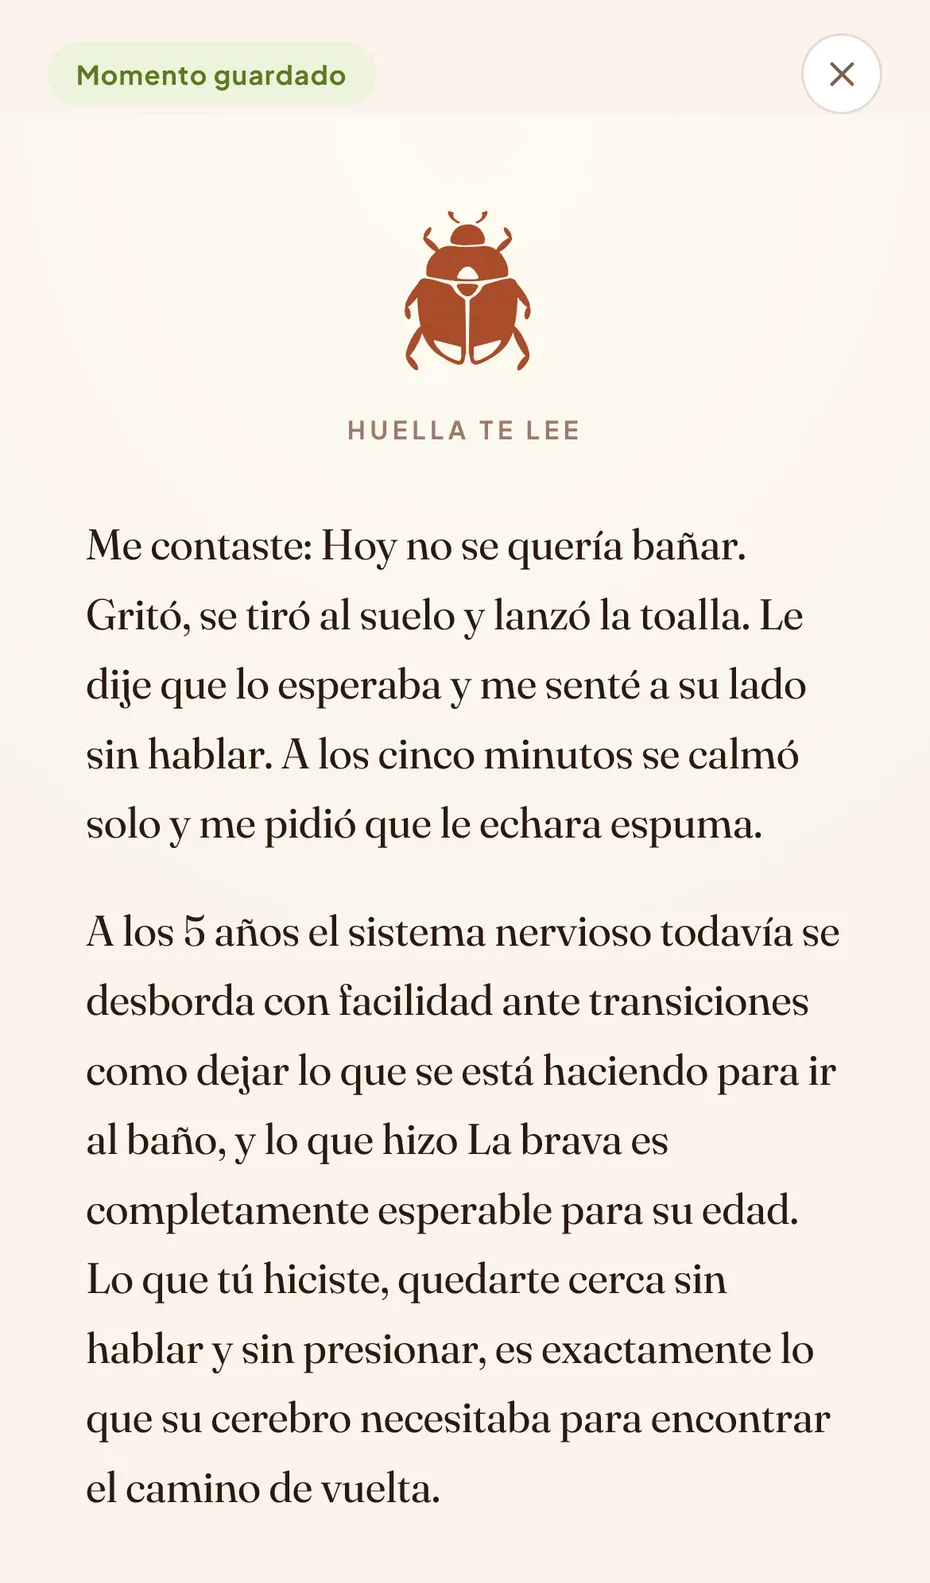
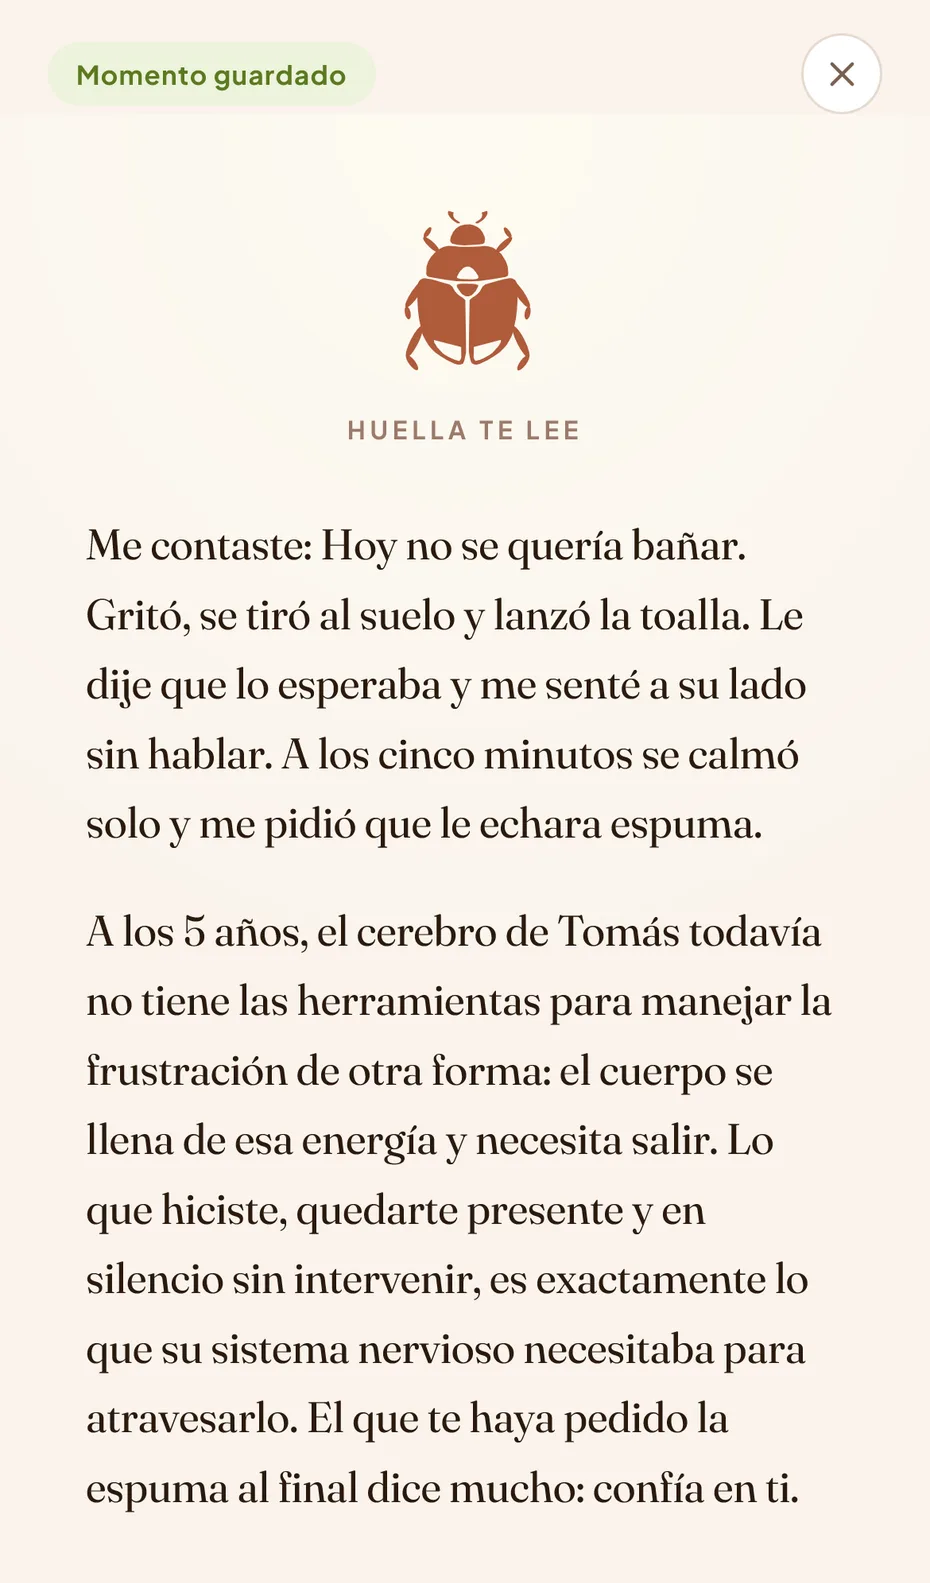
feat: portada de prueba con capturas de Tomas en vez de La brava y sin Carlos Gonzalez en el grafico de autores (no hay otro autor con rango de edad en el codigo)

Changed region(s): [[0.0935, 0.5572, 0.9043, 0.9596]]

diff --git a/src/pages/portada/PortadaPage.jsx b/src/pages/portada/PortadaPage.jsx
@@ -13,13 +13,14 @@ import styles from './PortadaPage.module.css'
 
 const TITULO = 'Huella — Conoce y potencia a tu hijo'
 
-// Edades de algunos autores (src/services/anthropic.js: edad minima y maxima
-// por autor). `hasta`: entra hasta esa edad; `desde`: entra desde esa edad.
+// Edades de algunos autores (src/services/anthropic.js: EDAD_MINIMA_AUTOR y
+// EDAD_MAXIMA_AUTOR). `hasta`: entra hasta esa edad; `desde`: entra desde esa
+// edad. Carlos González salio de la portada (4 oct 2026); no entro otro: los
+// demas autores del banco no tienen limite de edad en el codigo.
 const AUTORES = [
   { nombre: 'Gerber', hasta: 3 },
   { nombre: 'Lansbury', hasta: 6 },
   { nombre: 'Bowlby', hasta: 11 },
-  { nombre: 'Carlos González', hasta: 11 },
   { nombre: 'Wolfelt', desde: 3 },
   { nombre: 'Haidt', desde: 10 },
   { nombre: 'Twenge', desde: 10 },
